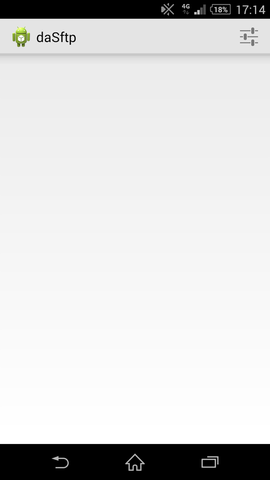
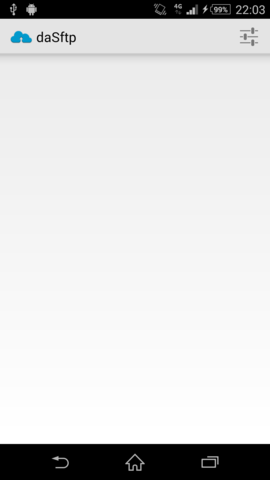
Updated screenshots, added feature section and removed fixed todos

diff --git a/index.html b/index.html
@@ -34,6 +34,15 @@
 <p>Small simple upload picture to sftp server and give direct link in clipboard. Clean and light, just one key press (share and app)</p>
 
 <h2>
+<a name="features" class="anchor" href="#features"><span class="octicon octicon-link"></span></a>Features</h2>
+<ul>
+<li>Just share the app with daSftp for it to upload to selected sftp server</li>
+<li>Link in clipboard</li>
+<li>Customizable tags before added to clipboard</li>
+<li>Simple error handling</li>
+</ul><p>Not sure how advance error handling is needed</p>
+
+<h2>
 <a name="todos" class="anchor" href="#todos"><span class="octicon octicon-link"></span></a>TODOs</h2>
 
 <ul>
